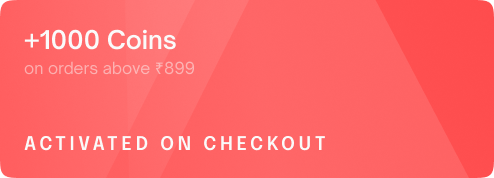
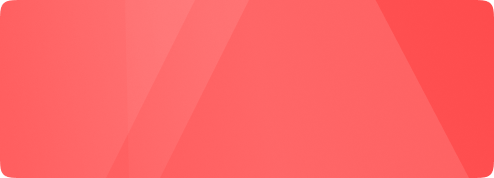
updated html coupons cart and checkout

Changed region(s): [[0.0304, 0.7584, 0.668, 0.8427], [0.0304, 0.1685, 0.3644, 0.2809], [0.0304, 0.3371, 0.3947, 0.4213]]

diff --git a/pages/cart/index.tsx b/pages/cart/index.tsx
@@ -16,6 +16,7 @@ import Toast from "../../utils/Toast";
 import Loader from "../../app/components/loader/loader";
 import CartItemLoader from "../../app/components/cart/CartItemLoader";
 import OfferCard from "../../app/components/checkout/OfferCard";
+import Offers from "./Offers";
 
 const CartScreen: NextPage = () => {
   const [cartItems, setCartItems] = useState<any>([]);
@@ -117,7 +118,7 @@ const CartScreen: NextPage = () => {
               )}
             </div>
             <div className="col-md-12 col-lg-4">
-            <OfferCard />
+              <OfferCard />
               <div className="bg-white border p-3 mt-4 shipping">
                 <div className="row">
                   <div className="col-md-12 py-2">
@@ -182,42 +183,7 @@ const CartScreen: NextPage = () => {
                     </div>
                   </div>
                 </div>
-
-                <div className="col-md-12 mt-4">
-                  <label className="col-form-label fs-14 font-sb text-color-1 mb-2">Ongoing Offers</label>
-                  <div className="discountBG position-relative">
-                    <a href="#">
-                      <img className="w-100" src="images/card-1.png" alt="" />
-                      <div className="carddata align-items-start d-flex flex-column h-100 justify-content-between w-100 ">
-                        <div>
-                          <h4 className="fs-24 font-sb text-white">Upto 20% off</h4>
-                          <p className="fs-16 font-r text-color-8">on selected brands</p>
-                        </div>
-                        <div className="d-flex w-100">
-                          <p className="fs-16 font-sb text-white ltr-space">NAVTATVA2022 <img src="images/card-icon.png" alt="" /></p>
-                          <p className="fs-12 font-r text-color-8 ms-auto">Valid till  <small className="fs-16 font-r text-white">30th July</small></p>
-                        </div>
-                      </div>
-                    </a>
-                  </div>
-                  <div className=" mt-4">
-                    <a href="#">
-                      <img className="w-100" src="images/card-2.png" alt="" />
-                      <div className="carddata align-items-start d-flex flex-column h-100 justify-content-between w-100 ">
-                        <div>
-                          <h4 className="fs-24 font-sb text-white">Upto 20% off</h4>
-                          <p className="fs-16 font-r text-color-8">on selected brands</p>
-                        </div>
-                        <div className="d-flex w-100">
-                          <p className="fs-16 font-sb text-white ltr-space">NAVTATVA2022 <img src="images/card-icon.png" alt="" /></p>
-                          <p className="fs-12 font-r text-color-8 ms-auto ">Valid till  <small className="fs-16 font-r text-white">30th July</small></p>
-                        </div>
-                      </div>
-                    </a>
-                  </div>
-                </div>
-
-
+                <Offers />
               </div>
             </div>
           </div>

diff --git a/pages/cart/Offers.tsx b/pages/cart/Offers.tsx
@@ -1,0 +1,62 @@
+import React from "react";
+
+const Offers = () => {
+  return (
+    <>
+      <div>
+        <div className="col-md-12 mt-4">
+          <label className="col-form-label fs-14 font-sb text-color-1 mb-2">Ongoing Offers</label>
+          <div className="position-relative">
+            <a href="#">
+              <img className="w-100" src="images/card-1.png" alt="" />
+              <div className="carddata align-items-start d-flex flex-column h-100 justify-content-between w-100 ">
+                <div>
+                  <h4 className="fs-24 font-sb text-white">Upto 20% off</h4>
+                  <p className="fs-16 font-r text-color-8">on selected brands</p>
+                </div>
+                <div className="d-flex w-100">
+                  <p className="fs-16 font-sb text-white ltr-space">NAVTATVA2022 <img src="images/card-icon.png" alt="" /></p>
+                  <p className="fs-12 font-r text-color-8 ms-auto">Valid till  <small className="fs-16 font-r text-white">30th July</small></p>
+                </div>
+              </div>
+            </a>
+          </div>
+          <div className="position-relative mt-4">
+            <a href="#">
+              <img className="w-100" src="images/card-2.png" alt="" />
+              <div className="carddata align-items-start d-flex flex-column h-100 justify-content-between w-100 ">
+                <div>
+                  <h4 className="fs-24 font-sb text-white">Upto 20% off</h4>
+                  <p className="fs-16 font-r text-color-8">on selected brands</p>
+                </div>
+                <div className="d-flex w-100">
+                  <p className="fs-16 font-sb text-white ltr-space">NAVTATVA2022 <img src="images/card-icon.png" alt="" /></p>
+                  <p className="fs-12 font-r text-color-8 ms-auto ">Valid till  <small className="fs-16 font-r text-white">30th July</small></p>
+                </div>
+              </div>
+            </a>
+          </div>
+        </div>
+        <div className="col-md-12 mt-4">
+          <label className="col-form-label fs-14 font-sb text-color-1 mb-2">Redeem Coins</label>
+          <div className="position-relative display-block">
+            <a href="#">
+              <img className="w-100" src="images/card-3.png" alt="" />
+              <div className="carddata align-items-start d-flex flex-column h-100 justify-content-between w-100 ">
+                <div>
+                  <h4 className="fs-24 font-sb text-white">+1000 Coins</h4>
+                  <p className="fs-16 font-r text-color-8">on orders above ₹899</p>
+                </div>
+                <div className="d-flex w-100">
+                  <p className="fs-16 font-sb text-white ltr-space">ACTIVATED ON CHECKOUT </p>
+                </div>
+              </div>
+            </a>
+          </div>
+        </div>
+      </div>
+    </>
+  )
+
+}
+export default Offers

diff --git a/styles/style.css b/styles/style.css
@@ -4758,3 +4758,5 @@ form.user-form .form-group {
     border: solid 1px rgba(0,0,0,0.1);
     border-radius: 10px;
 }
+
+
